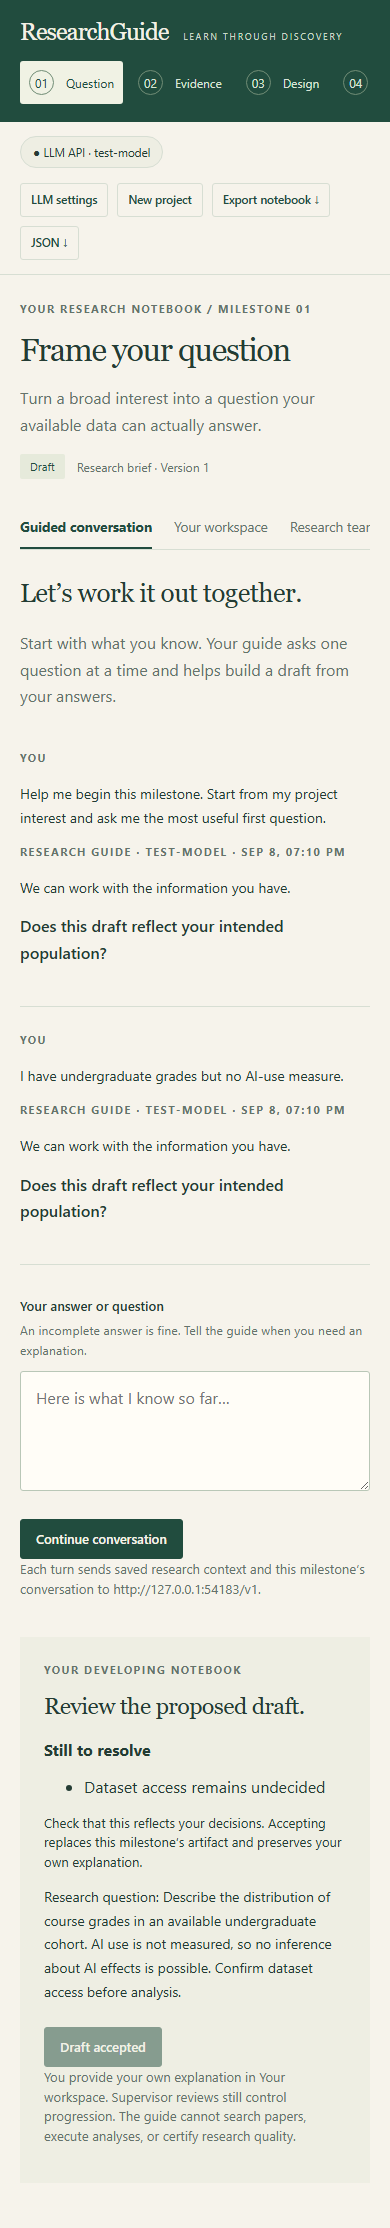
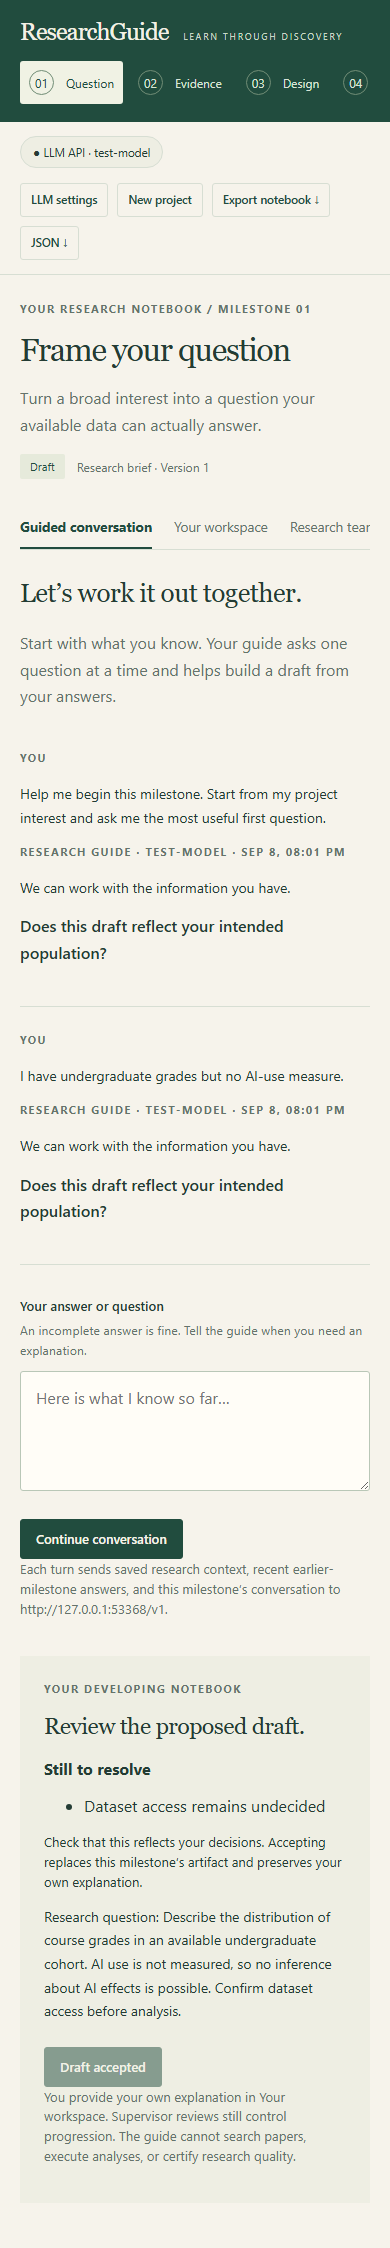
Carry research decisions and conversation context across milestones

diff --git a/public/app.js b/public/app.js
@@ -406,6 +406,11 @@ function updateSaveLabel() {
   if (label) label.textContent = isDirty() ? 'Unsaved changes' : 'Saved on this computer';
 }
 function conversationPanel() {
+  const prior = project.milestones.slice(
+    0,
+    stages.findIndex((s) => s.id === selected),
+  );
+  const carried = prior.filter((m) => m.artifact || m.conversation?.length);
   const turns = current().conversation || [];
   const latest = turns.at(-1);
   const send = (message) =>
@@ -437,6 +442,37 @@ function conversationPanel() {
           { className: 'note' },
           'Conversational guidance needs a model. Open LLM settings and choose Ollama or an API. The demo is available under Research team.',
         ),
+      carried.length > 0 &&
+        el(
+          'details',
+          { className: 'note' },
+          el(
+            'summary',
+            {},
+            `Carried forward from ${carried.length} earlier milestone${carried.length === 1 ? '' : 's'}`,
+          ),
+          el(
+            'p',
+            { className: 'small' },
+            'The guide receives saved artifacts, explanations, review status, and the latest 12 conversation turns from each earlier milestone. Saved drafts carry forward before supervisor approval.',
+          ),
+          carried.map((m) =>
+            el(
+              'section',
+              {},
+              el(
+                'h3',
+                {},
+                `${stages.find((s) => s.id === m.id).short} · v${m.version} · ${labels[m.status]}`,
+              ),
+              el(
+                'p',
+                { className: 'prewrap' },
+                m.artifact || 'No saved artifact yet; recent answers are available to the guide.',
+              ),
+            ),
+          ),
+        ),
       !turns.length &&
         el(
           'div',
@@ -444,13 +480,17 @@ function conversationPanel() {
           el(
             'p',
             {},
-            `We’ll begin with “${project.question || project.title}”. You do not need to complete the notebook first.`,
+            carried.length
+              ? 'Continue this study using your earlier work. The guide will connect those decisions to the next task here.'
+              : `We’ll begin with “${project.question || project.title}”. You do not need to complete the notebook first.`,
           ),
           button(
-            'Start guiding me',
+            carried.length ? 'Continue from earlier work' : 'Start guiding me',
             () =>
               send(
-                'Help me begin this milestone. Start from my project interest and ask me the most useful first question.',
+                carried.length
+                  ? 'Help me continue into this milestone. Build on my saved research brief and earlier answers. Briefly explain what carries forward, then ask the next milestone-specific question without restarting the project.'
+                  : 'Help me begin this milestone. Start from my project interest and ask me the most useful first question.',
               ),
             '',
             { disabled: busy || mode === 'demo' },
@@ -498,7 +538,7 @@ function conversationPanel() {
         { className: 'small muted' },
         mode === 'demo'
           ? 'No model is connected.'
-          : `Each turn sends saved research context and this milestone’s conversation to ${modelSettings.baseUrl}.`,
+          : `Each turn sends saved research context, recent earlier-milestone answers, and this milestone’s conversation to ${modelSettings.baseUrl}.`,
       ),
     ),
     el(

diff --git a/README.md b/README.md
@@ -22,7 +22,7 @@ This application intentionally listens on loopback only. It is a single-user loc
 
 New projects and milestones now open **Guided conversation**. Configure Ollama or a hosted API, then click **Start guiding me**, or type what you know. You do not need to fill in an artifact first.
 
-The guide uses your project, saved work, sources, and earlier answers to choose a focused follow-up question. It explains gaps and can propose a complete milestone draft. Ask it to revise anything inaccurate, then click **Accept draft into notebook** when it reflects your decisions. Acceptance saves a versioned artifact; it preserves your own explanation and renews affected review requirements. Outdated proposals cannot overwrite newer artifacts.
+The guide uses your project, saved work, sources, and earlier answers to choose a focused follow-up question. Later milestones carry forward earlier artifacts, explanations, review status, and the most recent 12 conversation turns per earlier milestone. The saved research brief takes precedence over the original project interest. Open “Carried forward” to inspect the earlier artifacts, then choose “Continue from earlier work”. Accepting a draft makes it available downstream; it does not grant supervisor approval. It explains gaps and can propose a complete milestone draft. Ask it to revise anything inaccurate, then click **Accept draft into notebook** when it reflects your decisions. Acceptance saves a versioned artifact; it preserves your own explanation and renews affected review requirements. Outdated proposals cannot overwrite newer artifacts.
 
 Open **Your workspace** to explain the reasoning in your own words and request supervisor review. The conversational guide is available across all seven milestones; the original three-role feedback remains under **Research team**. Each conversational turn uses one model call with a validated structured response. It does not independently search, execute analyses, approve work, or certify rigor.
 
